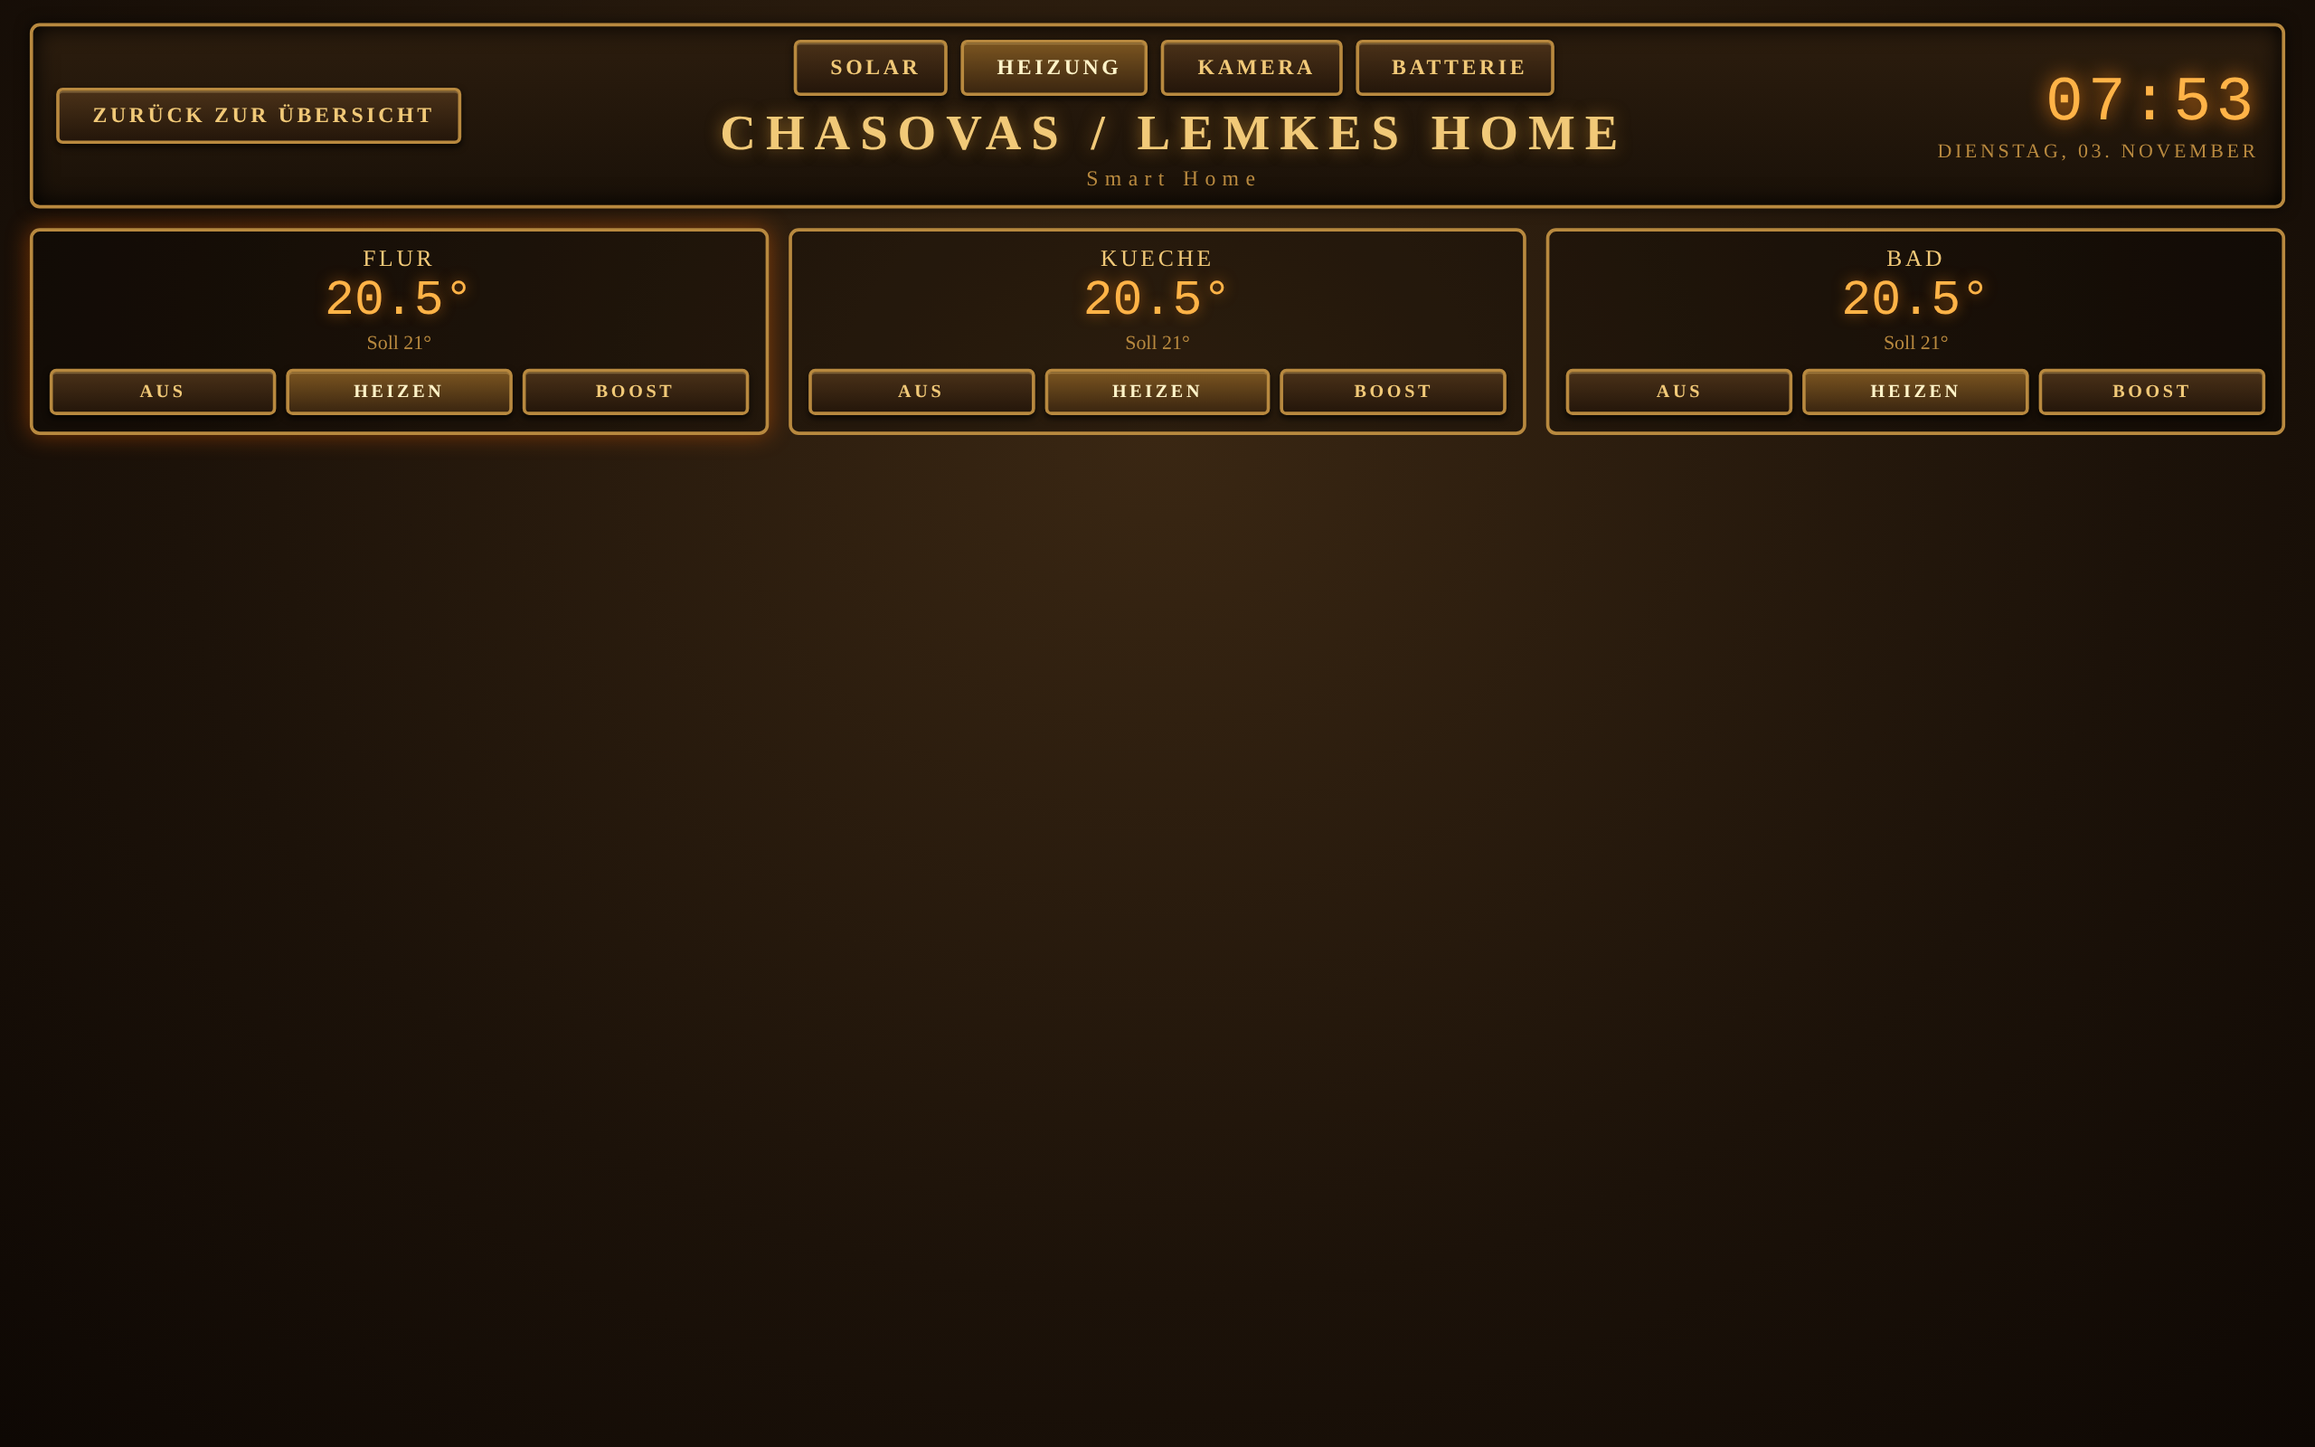
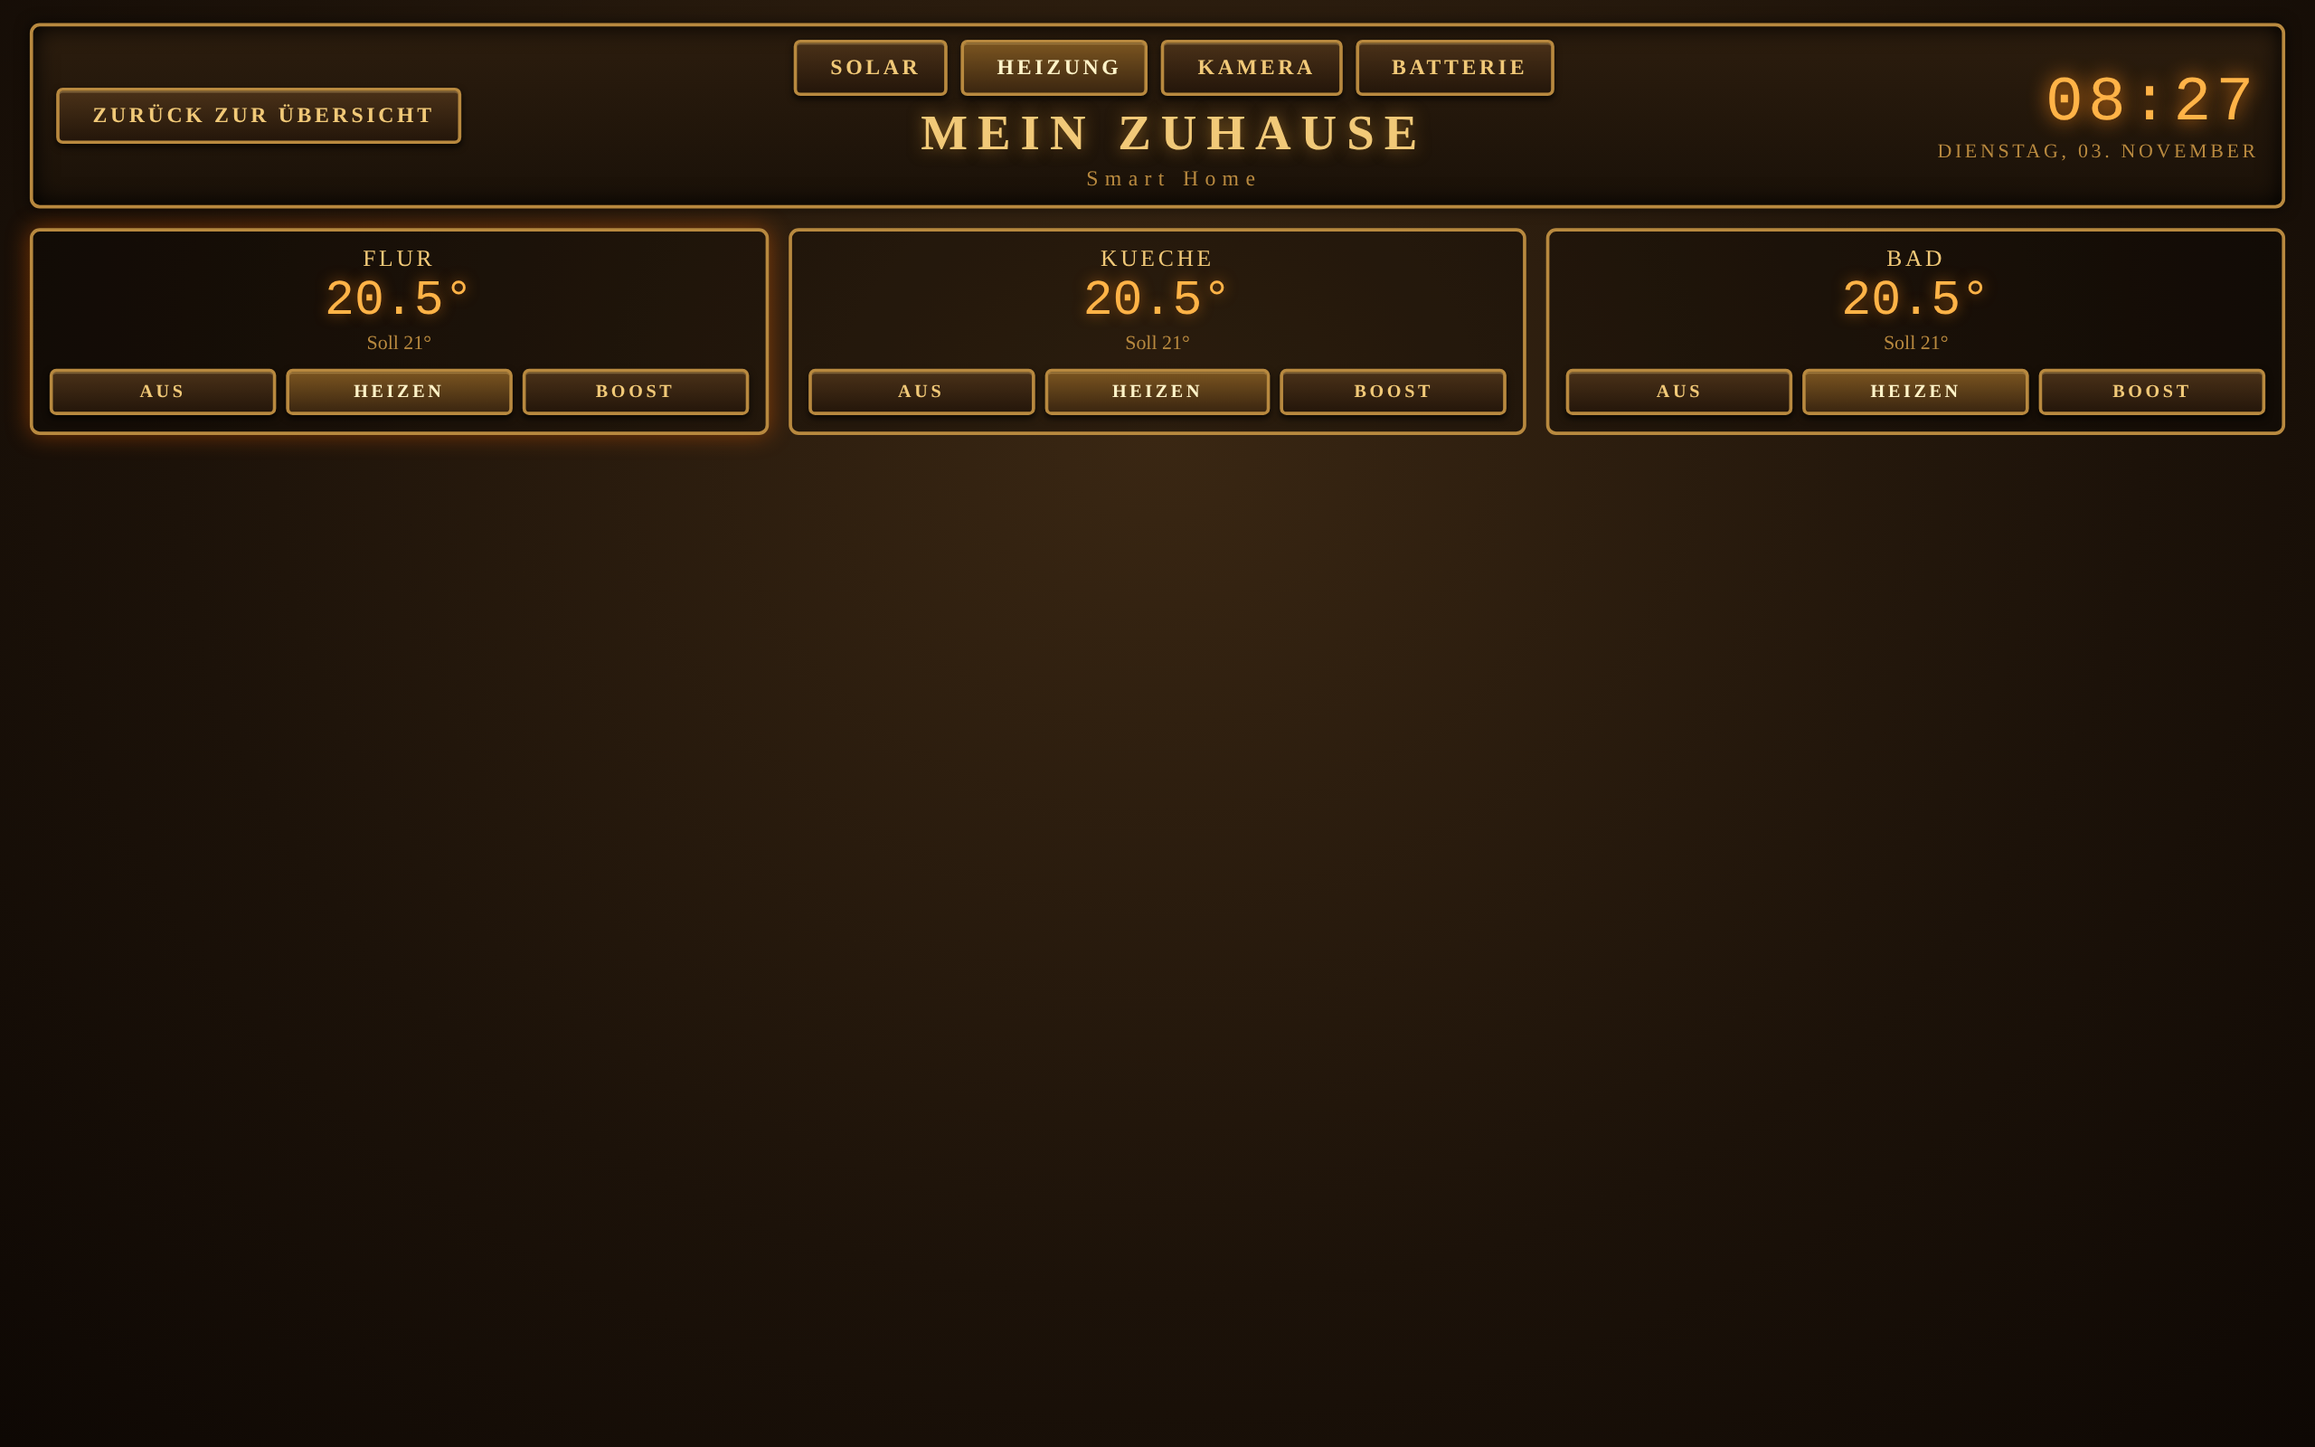
Add DE/EN translations, neutral placeholder title in demo
Claude-Session: https://claude.ai/code/session_01L7SWG1HF3zMUGotvu6xkfU

Changed region(s): [[0.3125, 0.0625, 0.7188, 0.125], [0.9062, 0.0625, 0.9688, 0.0938]]

diff --git a/custom_components/edison_dashboard/frontend/edison-dashboard.js b/custom_components/edison_dashboard/frontend/edison-dashboard.js
@@ -59,6 +59,7 @@ const CSS = `
 .bt.r{border-color:#c0492b;color:#ff9c7a}.bt.o{border-color:#665;color:#998}
 .empty{opacity:.6;font-size:13px;text-align:center;padding:8px}
 `;
+const TR = {"de": {"back": "ZURÜCK ZUR ÜBERSICHT", "solar": "SOLAR", "heating": "HEIZUNG", "camera": "KAMERA", "battery": "BATTERIE", "boilerroom": "KESSELHAUS", "security": "SICHERHEIT", "batteries": "BATTERIEN", "messages": "NACHRICHTEN", "lighting": "BELEUCHTUNG", "usage": "VERBRAUCH", "rooms": "RÄUME", "surveillance": "ÜBERWACHUNG", "weather": "WETTER", "waste": "MÜLLABHOLUNG", "allon": "ALLE AN", "alloff": "ALLE AUS", "power": "LEISTUNG", "energy": "ENERGIE", "off": "AUS", "heat": "HEIZEN", "boost": "BOOST", "allok": "Alles in Ordnung", "lowest": "Niedrigste", "devices": "Geräte", "grid": "Netz", "target": "Soll ", "nolights": "Keine Lichter", "nocams": "Keine Kameras", "noth": "Keine Thermostate", "nobat": "Keine Batterie-Sensoren", "nowaste": "Kein Müll-Sensor gewählt", "noboiler": "Kessel-Sensoren in den Einstellungen wählen", "pwrs": "LEISTUNGS-SENSOREN", "alarm": "ALARM"}, "en": {"back": "BACK TO OVERVIEW", "solar": "SOLAR", "heating": "HEATING", "camera": "CAMERA", "battery": "BATTERY", "boilerroom": "BOILER ROOM", "security": "SECURITY", "batteries": "BATTERIES", "messages": "MESSAGES", "lighting": "LIGHTING", "usage": "USAGE", "rooms": "ROOMS", "surveillance": "SURVEILLANCE", "weather": "WEATHER", "waste": "WASTE", "allon": "ALL ON", "alloff": "ALL OFF", "power": "POWER", "energy": "ENERGY", "off": "OFF", "heat": "HEAT", "boost": "BOOST", "allok": "All clear", "lowest": "Lowest", "devices": "Devices", "grid": "Grid", "target": "Target ", "nolights": "No lights", "nocams": "No cameras", "noth": "No thermostats", "nobat": "No battery sensors", "nowaste": "No waste sensor selected", "noboiler": "Select boiler sensors in the settings", "pwrs": "POWER SENSORS", "alarm": "ALARM"}};
 const E = s => String(s ?? "").replace(/[&<>"']/g, m => ({ "&": "&amp;", "<": "&lt;", ">": "&gt;", '"': "&quot;", "'": "&#39;" }[m]));
 const LIGHT_ICONS = ["mdi:lightbulb-outline", "mdi:lightbulb-on"];
 
@@ -78,6 +79,8 @@ class EdisonDashboard extends HTMLElement {
   set panel(p) { this._panel = p; this._cfg = (p && p.config) || {}; this.classList.toggle("kiosk", !!this._cfg.kiosk); this._sig = ""; this._render(); }
   set narrow(_) {} set route(_) {}
   set hass(h) { const first = !this._hass; this._hass = h; if (first || this._changed()) this._render(); }
+
+  t(k) { const l = ((this._hass && this._hass.language) || "de").slice(0, 2); return (TR[l] || TR.en)[k] ?? TR.en[k] ?? k; }
 
   /* ---------- config & discovery ---------- */
   get C() { return this._cfg.config || {}; }
@@ -136,8 +139,8 @@ class EdisonDashboard extends HTMLElement {
   _btn(label, go, icon, cls = "") { return `<div class="bn ${cls}" data-go="${go}">${icon ? `<ha-icon icon="${icon}"></ha-icon>` : ""}<span>${label}</span></div>`; }
   _hdr() {
     const sub = this._cfg.subtitle || "";
-    const left = this._view === "home" ? "" : this._btn("ZURÜCK ZUR ÜBERSICHT", "home", "mdi:home");
-    const nav = [["solar", "SOLAR", "mdi:solar-power"], ["heizung", "HEIZUNG", "mdi:radiator"], ["kamera", "KAMERA", "mdi:cctv"], ["batterien", "BATTERIE", "mdi:battery"]]
+    const left = this._view === "home" ? "" : this._btn(this.t("back"), "home", "mdi:home");
+    const nav = [["solar", this.t("solar"), "mdi:solar-power"], ["heizung", this.t("heating"), "mdi:radiator"], ["kamera", this.t("camera"), "mdi:cctv"], ["batterien", this.t("battery"), "mdi:battery"]]
       .map(([k, l, i]) => this._btn(l, k, i, this._view === k ? "on" : "")).join("");
     return `<div class="hd"><div class="hc">${left}</div><div class="tt"><div class="nav">${nav}</div>
       <h1>${E((this._cfg.title || "").toUpperCase())}</h1><p>${E(sub)}</p></div>
@@ -178,24 +181,24 @@ class EdisonDashboard extends HTMLElement {
       return `<div class="rm ${heat ? "heat" : ""}" data-mi="${e}"><span>${E(this._room(e))}</span><b>${s.attributes.current_temperature ?? "–"}° / ${s.attributes.temperature ?? "–"}°</b></div>`; }).join("");
     const waste = this._waste();
     const L = `
-      <div class="sec" data-t="KESSELHAUS">${boiler || flow ? `
+      <div class="sec" data-t="${this.t('boilerroom')}">${boiler || flow ? `
         ${boiler ? `<div class="big">${E(S[boiler]?.state ?? "–")}°</div><div class="cap">${E(this._name(boiler)).toUpperCase()}</div>` : ""}
-        ${flow ? `<div class="row"><span>${E(this._name(flow))}</span><b>${E(S[flow]?.state ?? "–")}°</b></div>` : ""}` : `<div class="empty">Kessel-Sensoren in den Einstellungen wählen</div>`}</div>
-      <div class="sec" data-t="SICHERHEIT">${alarm ? `<div class="big" data-mi="${this.alarm}">${E(alarm.state.replace(/_/g, " ").toUpperCase())}</div>` : ""}
+        ${flow ? `<div class="row"><span>${E(this._name(flow))}</span><b>${E(S[flow]?.state ?? "–")}°</b></div>` : ""}` : `<div class="empty">${this.t("noboiler")}</div>`}</div>
+      <div class="sec" data-t="${this.t('security')}">${alarm ? `<div class="big" data-mi="${this.alarm}">${E(alarm.state.replace(/_/g, " ").toUpperCase())}</div>` : ""}
         ${this.statuses.map(e => `<div class="row"><span>${E(this._name(e))}</span><b>${S[e]?.state === "on" ? "⚠" : "OK"}</b></div>`).join("") || (alarm ? "" : `<div class="empty">–</div>`)}</div>
-      <div class="sec" data-t="BATTERIEN"><div class="row"><span>Niedrigste</span><b>${this._lowBat()}</b></div><div class="row"><span>Geräte</span><b>${this.batteries.length}</b></div></div>
-      <div class="sec" data-t="NACHRICHTEN">${msgs.length ? msgs.map(m => `<div class="msg">⚠ ${E(m)}</div>`).join("") : `<div class="msg ok">Alles in Ordnung</div>`}</div>`;
+      <div class="sec" data-t="${this.t('batteries')}"><div class="row"><span>${this.t("lowest")}</span><b>${this._lowBat()}</b></div><div class="row"><span>${this.t("devices")}</span><b>${this.batteries.length}</b></div></div>
+      <div class="sec" data-t="${this.t('messages')}">${msgs.length ? msgs.map(m => `<div class="msg">⚠ ${E(m)}</div>`).join("") : `<div class="msg ok">${this.t("allok")}</div>`}</div>`;
     const M = `
-      <div class="sec" data-t="BELEUCHTUNG"><div class="bl">${lamps || `<div class="empty">Keine Lichter</div>`}</div>
-        <div class="alls"><div class="bn" data-all="turn_on">ALLE AN</div><div class="bn" data-all="turn_off">ALLE AUS</div></div></div>
-      <div class="sec" data-t="VERBRAUCH"><div class="row"><span>Solar</span><b>${this._fmtW(sol)}</b></div>
-        <div class="row"><span>Netz</span><b>${this._fmtW(grid)}</b></div></div>
-      <div class="sec" data-t="RÄUME">${rooms || `<div class="empty">Keine Thermostate</div>`}</div>`;
+      <div class="sec" data-t="${this.t('lighting')}"><div class="bl">${lamps || `<div class="empty">${this.t("nolights")}</div>`}</div>
+        <div class="alls"><div class="bn" data-all="turn_on">${this.t("allon")}</div><div class="bn" data-all="turn_off">${this.t("alloff")}</div></div></div>
+      <div class="sec" data-t="${this.t('usage')}"><div class="row"><span>Solar</span><b>${this._fmtW(sol)}</b></div>
+        <div class="row"><span>${this.t("grid")}</span><b>${this._fmtW(grid)}</b></div></div>
+      <div class="sec" data-t="${this.t('rooms')}">${rooms || `<div class="empty">${this.t("noth")}</div>`}</div>`;
     const R = `
-      <div class="sec" data-t="ÜBERWACHUNG">${cams.length ? `<div class="cs rot">${cams.map((e, i) => `<img class="cam ${i === this._cam % cams.length ? "on" : ""}" data-n="${E(this._name(e))}" src="${this._img(e)}">`).join("")}
-        <div class="cn">${E(this._name(cams[this._cam % cams.length]))}</div></div>` : `<div class="empty">Keine Kameras</div>`}</div>
-      <div class="sec" data-t="WETTER">${w ? `<div class="big">${w.attributes.temperature ?? "–"}°</div><div class="cap">${E(w.state.toUpperCase())}</div>` : `<div class="empty">–</div>`}</div>
-      <div class="sec" data-t="MÜLLABHOLUNG">${waste || `<div class="empty">Kein Müll-Sensor gewählt</div>`}</div>`;
+      <div class="sec" data-t="${this.t('surveillance')}">${cams.length ? `<div class="cs rot">${cams.map((e, i) => `<img class="cam ${i === this._cam % cams.length ? "on" : ""}" data-n="${E(this._name(e))}" src="${this._img(e)}">`).join("")}
+        <div class="cn">${E(this._name(cams[this._cam % cams.length]))}</div></div>` : `<div class="empty">${this.t("nocams")}</div>`}</div>
+      <div class="sec" data-t="${this.t('weather')}">${w ? `<div class="big">${w.attributes.temperature ?? "–"}°</div><div class="cap">${E(w.state.toUpperCase())}</div>` : `<div class="empty">–</div>`}</div>
+      <div class="sec" data-t="${this.t('waste')}">${waste || `<div class="empty">${this.t("nowaste")}</div>`}</div>`;
     return `<div class="grid"><div class="col">${L}</div><div class="col">${M}</div><div class="col">${R}</div></div>`;
   }
   _room(e) { return this._name(e).replace(/better.?thermostat/i, "").replace(/thermostat/i, "").replace(/wand/i, "").trim(); }
@@ -203,7 +206,7 @@ class EdisonDashboard extends HTMLElement {
   _messages() {
     const m = [];
     for (const e of this.batteries) { const x = this._val(e); if (!isNaN(x) && x < 10) m.push(`${this._name(e)}: ${x} %`); }
-    for (const e of this._ids("binary_sensor", (i, s) => ["moisture", "smoke"].includes(s.attributes.device_class) && s.state === "on")) m.push(`${this._name(e)}: ALARM`);
+    for (const e of this._ids("binary_sensor", (i, s) => ["moisture", "smoke"].includes(s.attributes.device_class) && s.state === "on")) m.push(`${this._name(e)}: ${this.t("alarm")}`);
     return m;
   }
   _waste() {
@@ -219,21 +222,21 @@ class EdisonDashboard extends HTMLElement {
     const pw = this._ids("sensor", (e, s) => s.attributes.device_class === "power" && !isNaN(Number(s.state))).slice(0, 12);
     const en = this._ids("sensor", (e, s) => s.attributes.device_class === "energy" && s.attributes.state_class && !isNaN(Number(s.state))).slice(0, 12);
     const rows = l => l.map(e => `<div class="row" data-mi="${e}"><span>${E(this._name(e))}</span><b>${E(S[e].state)} ${E(S[e].attributes.unit_of_measurement || "")}</b></div>`).join("") || `<div class="empty">–</div>`;
-    return `<div class="grid"><div class="sec" data-t="LEISTUNG"><div class="big">${this._fmtW(this._val(this.solar))}</div><div class="cap">SOLAR</div>
+    return `<div class="grid"><div class="sec" data-t="${this.t('power')}"><div class="big">${this._fmtW(this._val(this.solar))}</div><div class="cap">SOLAR</div>
       <div class="big" style="font-size:22px">${this._fmtW(this._val(this.grid))}</div><div class="cap">NETZ</div></div>
-      <div class="sec" data-t="LEISTUNGS-SENSOREN">${rows(pw)}</div><div class="sec" data-t="ENERGIE">${rows(en)}</div></div>`;
+      <div class="sec" data-t="${this.t('pwrs')}">${rows(pw)}</div><div class="sec" data-t="${this.t('energy')}">${rows(en)}</div></div>`;
   }
   _v_heizung() {
     const S = this._hass.states;
     const cards = this.climates.map(e => { const s = S[e]; if (!s) return ""; const heat = s.attributes.hvac_action === "heating", m = s.state;
       return `<div class="rc ${heat ? "heat" : ""}">${heat ? `<ha-icon class="hb" icon="mdi:lightbulb-on"></ha-icon>` : ""}
         <div class="nm" data-mi="${e}">${E(this._room(e).toUpperCase())}</div>
-        <div class="big">${s.attributes.current_temperature ?? "–"}°</div><div class="tg">Soll ${s.attributes.temperature ?? "–"}°</div>
-        <div class="acts"><div class="bn ${m === "off" ? "on" : ""}" data-hv="${e}|off">AUS</div>
-        <div class="bn ${m === "heat" ? "on" : ""}" data-hv="${e}|heat">HEIZEN</div><div class="bn" data-boost="${e}">BOOST</div></div></div>`; }).join("");
+        <div class="big">${s.attributes.current_temperature ?? "–"}°</div><div class="tg">${this.t("target")}${s.attributes.temperature ?? "–"}°</div>
+        <div class="acts"><div class="bn ${m === "off" ? "on" : ""}" data-hv="${e}|off">${this.t("off")}</div>
+        <div class="bn ${m === "heat" ? "on" : ""}" data-hv="${e}|heat">${this.t("heat")}</div><div class="bn" data-boost="${e}">${this.t("boost")}</div></div></div>`; }).join("");
     const b = this.C.boiler_temp, f = this.C.flow_temp;
     const banner = (b || f) ? `<div class="sec" data-t="KESSEL" style="margin-bottom:12px">${b ? `<div class="row"><span>${E(this._name(b))}</span><b>${E(S[b]?.state)}°</b></div>` : ""}${f ? `<div class="row"><span>${E(this._name(f))}</span><b>${E(S[f]?.state)}°</b></div>` : ""}</div>` : "";
-    return banner + `<div class="rcg">${cards || `<div class="empty">Keine Thermostate</div>`}</div>`;
+    return banner + `<div class="rcg">${cards || `<div class="empty">${this.t("noth")}</div>`}</div>`;
   }
   _v_kamera() {
     const c = this.cameras.slice(0, 3);
@@ -243,7 +246,7 @@ class EdisonDashboard extends HTMLElement {
     const S = this._hass.states;
     const t = this.batteries.map(e => { const x = this._val(e), cls = isNaN(x) ? "o" : x < 10 ? "r" : x < 30 ? "m" : "g";
       return `<div class="bt ${cls}" data-mi="${e}"><div>${E(this._name(e))}</div><div class="big">${isNaN(x) ? "–" : x + " %"}</div></div>`; }).join("");
-    return `<div class="tiles">${t || `<div class="empty">Keine Batterie-Sensoren</div>`}</div>`;
+    return `<div class="tiles">${t || `<div class="empty">${this.t("nobat")}</div>`}</div>`;
   }
 
   /* ---------- fit to screen ---------- */

diff --git a/tests/mock.html b/tests/mock.html
@@ -15,6 +15,6 @@ add('sensor.waste','x',{'2026-11-04':'Bioabfall','2026-11-10':'Restmüll'});
 window.calls=[];
 const el=document.createElement('edison-dashboard');el.style.height='800px';el.style.display='block';
 document.getElementById('h').appendChild(el);
-el.panel={config:{title:'Chasovas / Lemkes Home',subtitle:'Smart Home',config:{waste:'sensor.waste'}}};
+el.panel={config:{title:'Mein Zuhause',subtitle:'Smart Home',config:{waste:'sensor.waste'}}};
 el.hass={states:st,language:'de',callService:(d,s,x)=>window.calls.push([d,s,x])};
 </script></body></html>
